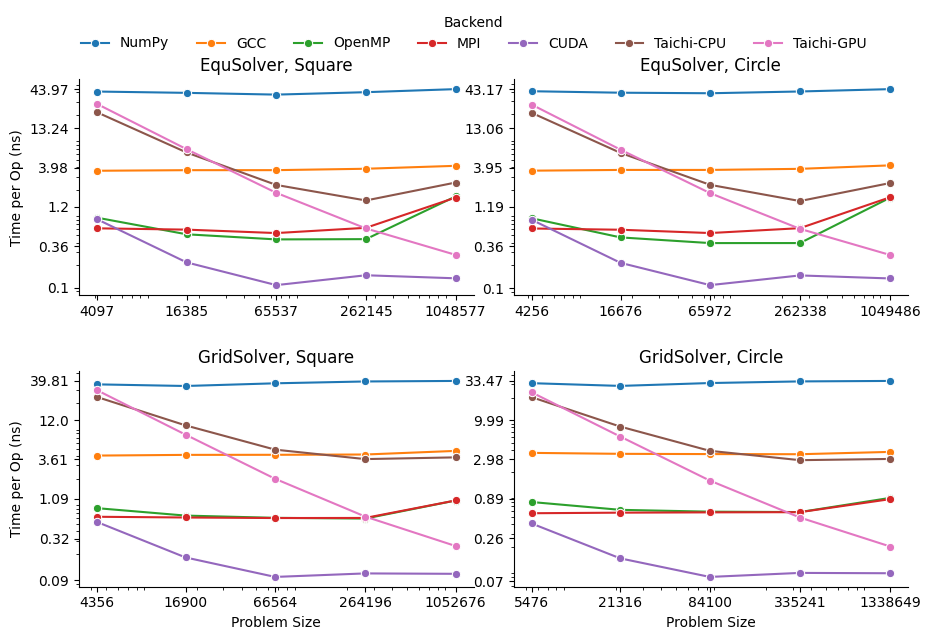
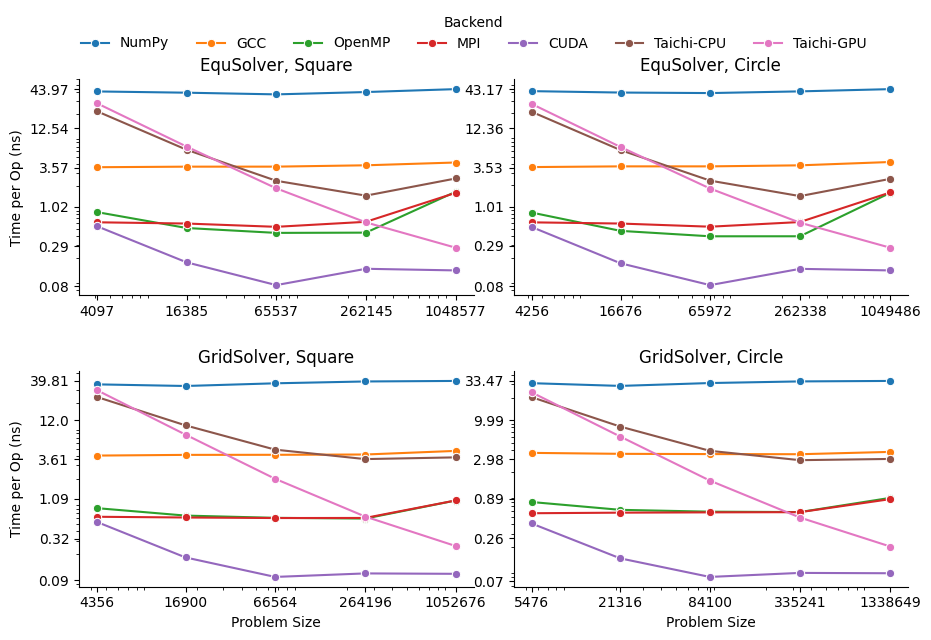
cuda ablation study plot and table

diff --git a/docs/image/plot.py b/docs/image/plot.py
@@ -115,13 +115,19 @@ def ablation(backend, new_col):
   sep = f"<!--{backend}-->"
   raw = open("../benchmark/README.md").read().split(sep)
   base = []
-  for i in [1, 2, 3, 4]:
-    base.append(parse_table(raw[i], backend, new_col))
-  # tmin = min([i[1] for i in base])
-  # tmax = max([i[2] for i in base])
-  # print(tmin, tmax)
-  tmin = 0.35
-  tmax = 4.4
+  if backend != "cuda":
+    for i in [1, 2, 3, 4]:
+      base.append(parse_table(raw[i], backend, new_col))
+    # tmin = min([i[1] for i in base])
+    # tmax = max([i[2] for i in base])
+    # print(tmin, tmax)
+    tmin = 0.35
+    tmax = 4.4
+  else:
+    for i in [1, 2]:
+      base.append(parse_table(raw[i], backend, new_col))
+    tmin = min([i[1] for i in base])
+    tmax = max([i[2] for i in base])
   data = pd.DataFrame(data)
   print(data)
   g = sns.FacetGrid(
@@ -140,9 +146,14 @@ def ablation(backend, new_col):
   axes = g.axes.flatten()
   for ax, b in zip(axes, base):
     b = b[0]
-    y = np.logspace(math.log10(tmin), math.log10(tmax), 6)
-    y = (y * 100).astype(int) / 100.
-    ax.set(xscale="log", yscale="log")
+    if backend != "cuda":
+      y = np.logspace(math.log10(tmin), math.log10(tmax), 6)
+      y = (y * 100).astype(int) / 100.
+      ax.set(xscale="log", yscale="log")
+    else:
+      y = np.linspace(tmin, tmax, 6)
+      y = (y * 1000).astype(int) / 1000.
+      ax.set(xscale="log")
     ax.set(xticks=b, yticks=y)
     ax.set(xticklabels=b, yticklabels=y)
     title = ax.get_title()
@@ -155,3 +166,4 @@ if __name__ == '__main__':
   benchmark()
   ablation("openmp", "# of Threads")
   ablation("mpi", "# of Workers")
+  ablation("cuda", "# of Threads per Block")

diff --git a/docs/benchmark/README.md b/docs/benchmark/README.md
@@ -47,8 +47,8 @@ fpie -s circle10.png -t circle10.png -m circle10.png -o result.png -n 5000 -b op
 mpiexec -np 8 fpie -s square10.png -t square10.png -m square10.png -o result.png -n 5000 -b mpi --method equ --mpi-sync-interval 100
 mpiexec -np 8 fpie -s circle10.png -t circle10.png -m circle10.png -o result.png -n 5000 -b mpi --method equ --mpi-sync-interval 100
 # cuda
-fpie -s square10.png -t square10.png -m square10.png -o result.png -n 5000 -b cuda --method equ -z 1024
-fpie -s circle10.png -t circle10.png -m circle10.png -o result.png -n 5000 -b cuda --method equ -z 1024
+fpie -s square10.png -t square10.png -m square10.png -o result.png -n 5000 -b cuda --method equ -z 256
+fpie -s circle10.png -t circle10.png -m circle10.png -o result.png -n 5000 -b cuda --method equ -z 256
 # taichi-cpu
 fpie -s square10.png -t square10.png -m square10.png -o result.png -n 5000 -b taichi-cpu --method equ -c 8
 fpie -s circle10.png -t circle10.png -m circle10.png -o result.png -n 5000 -b taichi-cpu --method equ -c 8
@@ -66,7 +66,7 @@ fpie -s circle10.png -t circle10.png -m circle10.png -o result.png -n 5000 -b ta
 | GCC        | 0.0740s | 0.3013s | 1.2061s  | 5.0351s  | 22.0276s  |
 | OpenMP     | 0.0176s | 0.0423s | 0.1447s  | 0.5835s  | 8.6203s   |
 | MPI        | 0.0127s | 0.0488s | 0.1757s  | 0.8253s  | 8.3310s   |
-| CUDA       | 0.0168s | 0.0179s | 0.0357s  | 0.1931s  | 0.7037s   |
+| CUDA       | 0.0112s | 0.0141s | 0.0272s  | 0.1835s  | 0.6967s   |
 | Taichi-CPU | 0.4437s | 0.5178s | 0.7667s  | 1.9061s  | 13.2009s  |
 | Taichi-GPU | 0.5730s | 0.5727s | 0.6022s  | 0.8101s  | 1.4430s   |
 
@@ -79,7 +79,7 @@ fpie -s circle10.png -t circle10.png -m circle10.png -o result.png -n 5000 -b ta
 | GCC        | 0.0764s | 0.3062s | 1.2115s  | 4.9785s  | 22.1516s  |
 | OpenMP     | 0.0179s | 0.0391s | 0.1301s  | 0.5177s  | 8.2778s   |
 | MPI        | 0.0131s | 0.0494s | 0.1767s  | 0.8155s  | 8.3823s   |
-| CUDA       | 0.0171s | 0.0180s | 0.0361s  | 0.1929s  | 0.7037s   |
+| CUDA       | 0.0113s | 0.0139s | 0.0274s  | 0.1831s  | 0.6966s   |
 | Taichi-CPU | 0.4461s | 0.5148s | 0.7687s  | 1.8646s  | 12.9343s  |
 | Taichi-GPU | 0.5735s | 0.5679s | 0.5971s  | 0.7987s  | 1.4379s   |
 
@@ -230,8 +230,26 @@ mpiexec -np 8 fpie -s circle10.png -t circle10.png -m circle10.png -o result.png
 
 ### CUDA
 
+![](https://github.com/Trinkle23897/Fast-Poisson-Image-Editing/raw/main/docs/image/cuda.png)
 
 Command to run:
 
 ```bash
+fpie -s circle10.png -t circle10.png -m circle10.png -o result.png -n 5000 -b cuda --method equ -z 1024
 ```
+
+<!--cuda-->
+
+| circle9   | 16     | 32   | 64     | 128 | 256    | 512    | 1024       |
+| --------- | ------- | ------- | ------- | ------- | ------- | ------- | ------- |
+| # of vars | 262338 | 262338 | 262338  | 262338 | 262338  | 262338 | 262338  |
+| EquSolver | 0.1885s | 0.1844s | 0.1841s | 0.1831s | 0.1823s | 0.1861s | 0.1893s |
+
+<!--cuda-->
+
+| circle10  | 16      | 32      | 64      | 128     | 256     | 512     | 1024    |
+| --------- | ------- | ------- | ------- | ------- | ------- | ------- | ------- |
+| # of vars | 1049486 | 1049486 | 1049486 | 1049486 | 1049486 | 1049486 | 1049486 |
+| EquSolver | 0.7220s | 0.7038s | 0.7012s | 0.6976s | 0.6973s | 0.6983s | 0.7037s |
+
+<!--cuda-->
